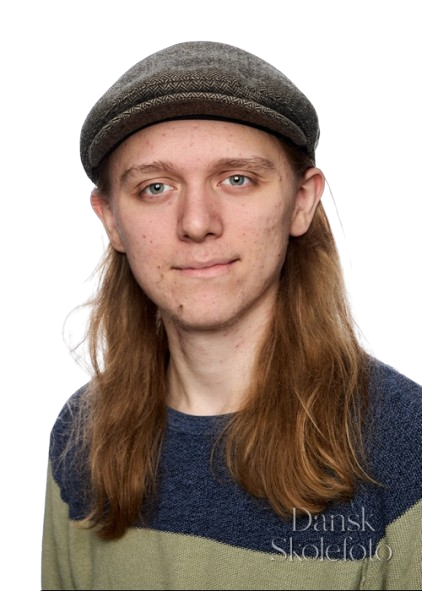
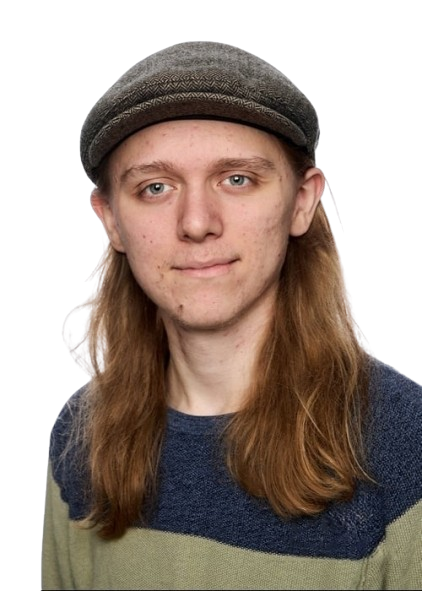
Remove watermmarks from pictures

Changed region(s): [[0.6469, 0.7919, 0.955, 1.0]]

diff --git a/CV.html b/CV.html
@@ -68,7 +68,7 @@
   <!--end of Navigation bar-->
 
   <div class="CVSideBar content">
-    <a id="CVPicContainer" href="/Images/About/Cornelius.jpg"><img id="CVPic" src="Images/About/CorneliusNoBg.png"></a>
+    <a id="CVPicContainer" href="/Images/About/Cornelius.jpeg"><img id="CVPic" src="Images/About/CorneliusNoBg.png"></a>
     <h2>Profile</h2>
     <p>I'm a passionated <span id="AGE">AGE</span> year old student
       with a love for <br>Linux <i class="fa-brands fa-linux"></i>,

diff --git a/about.html b/about.html
@@ -68,7 +68,7 @@
   <!--end of Navigation bar-->
 
   <div class="content">
-    <a id="AboutPicContainer" href="/Images/About/Cornelius.jpg"><img id="AboutPic"
+    <a id="AboutPicContainer" href="/Images/About/Cornelius.jpeg"><img id="AboutPic"
         src="Images/About/CorneliusNoBg.png"></a>
     <h1>Cornelius Andreas Rosenaa</h1>
     <h2></h2>
